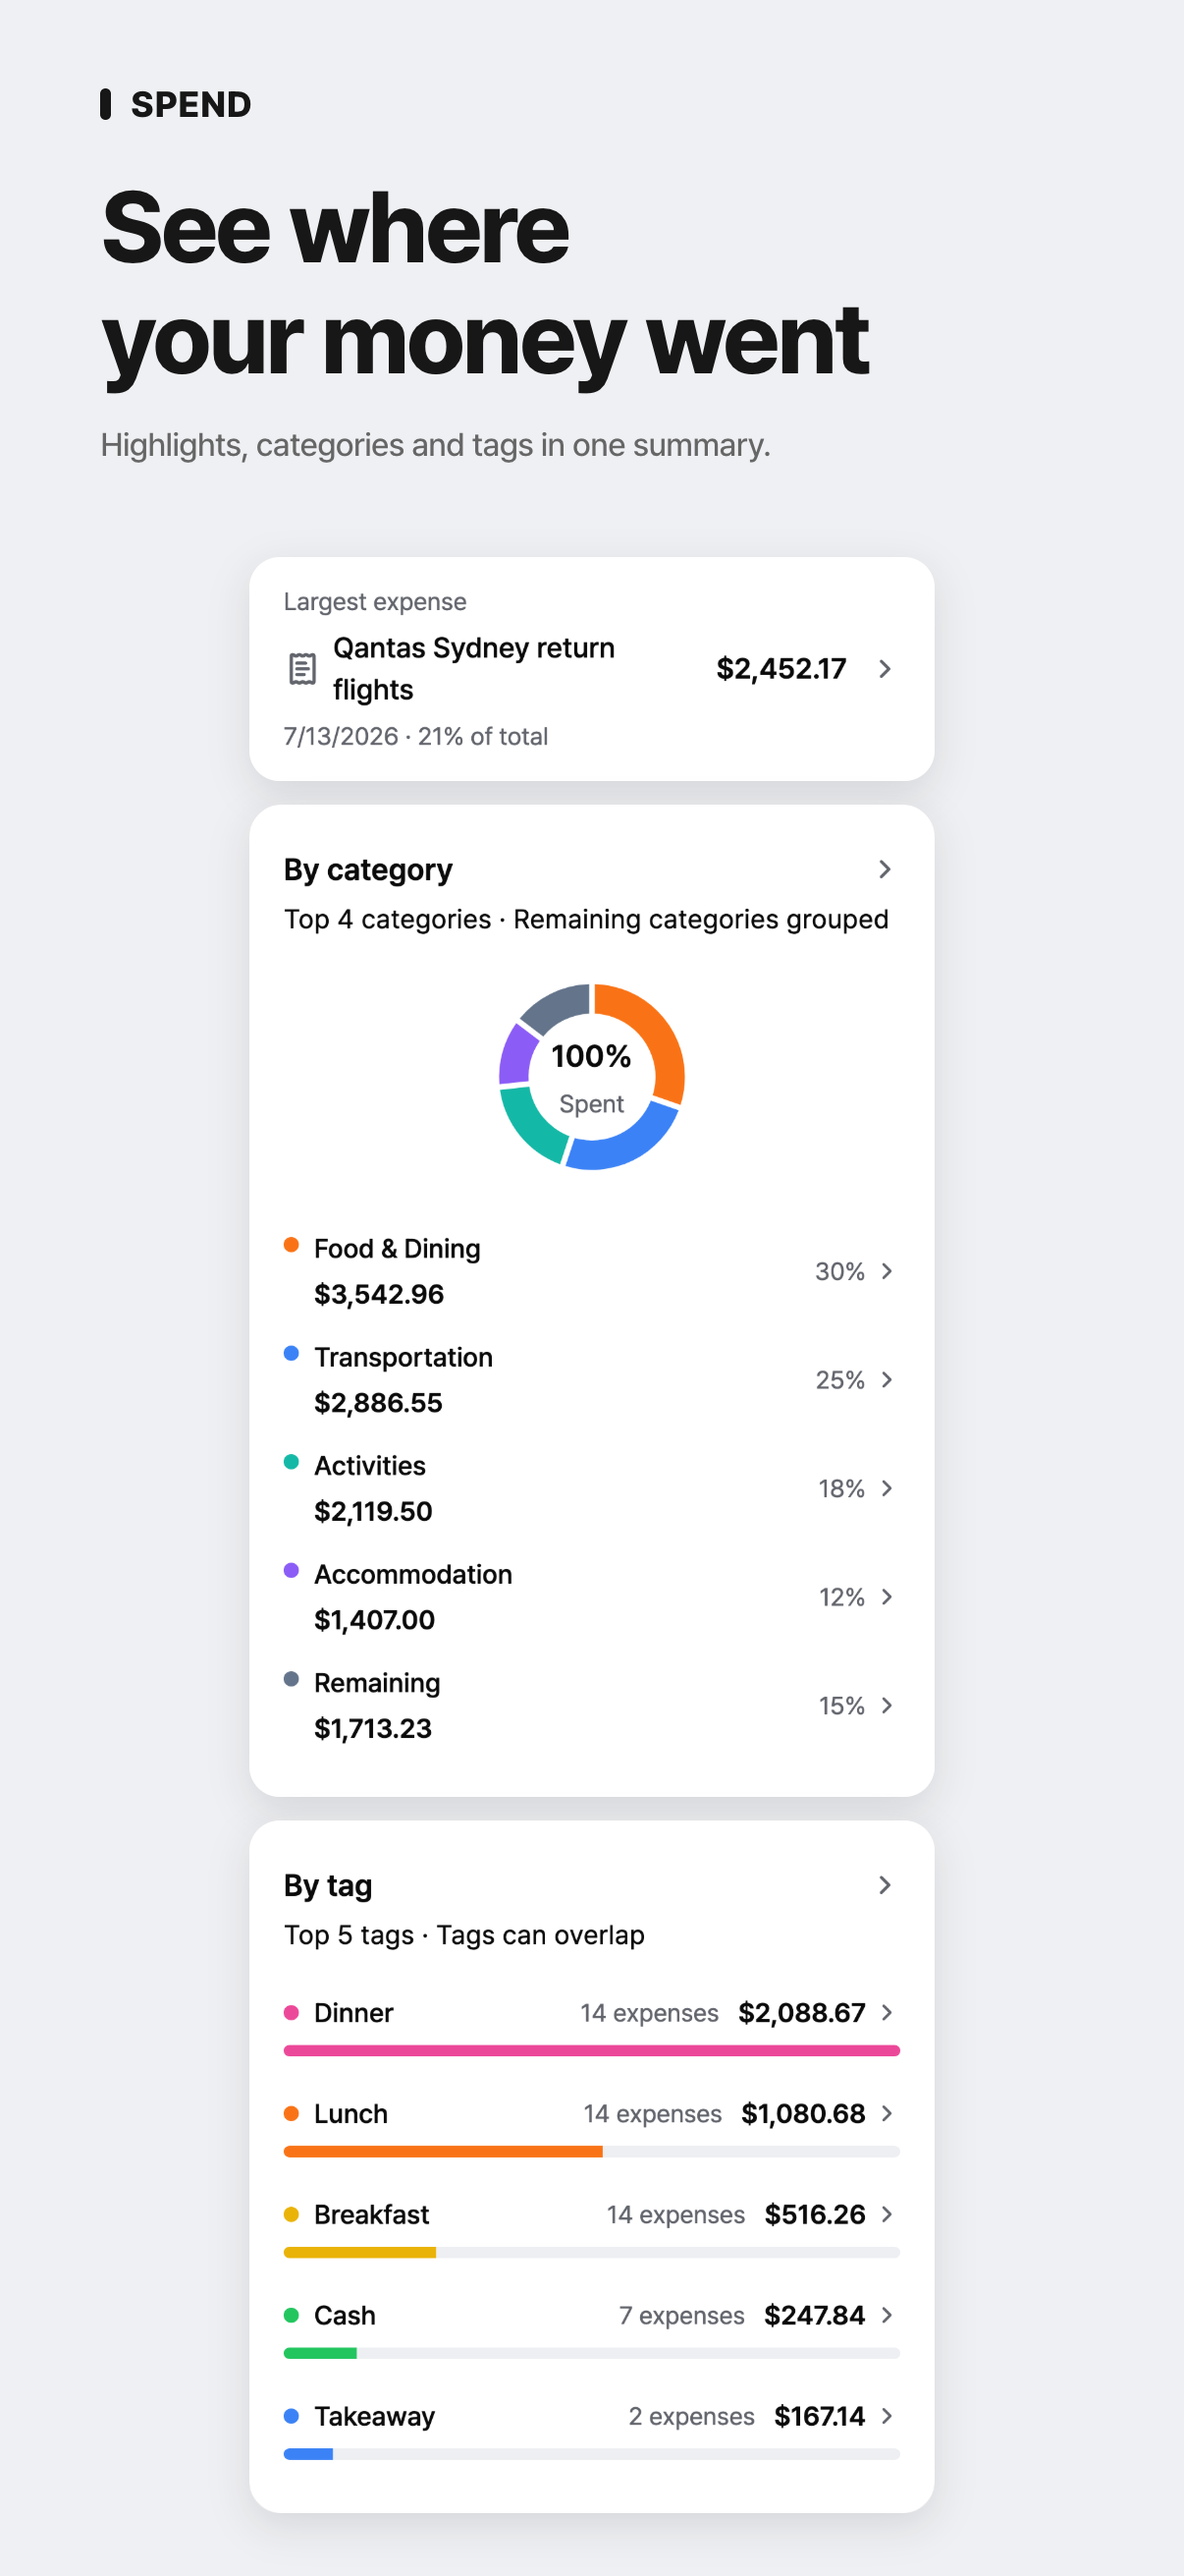
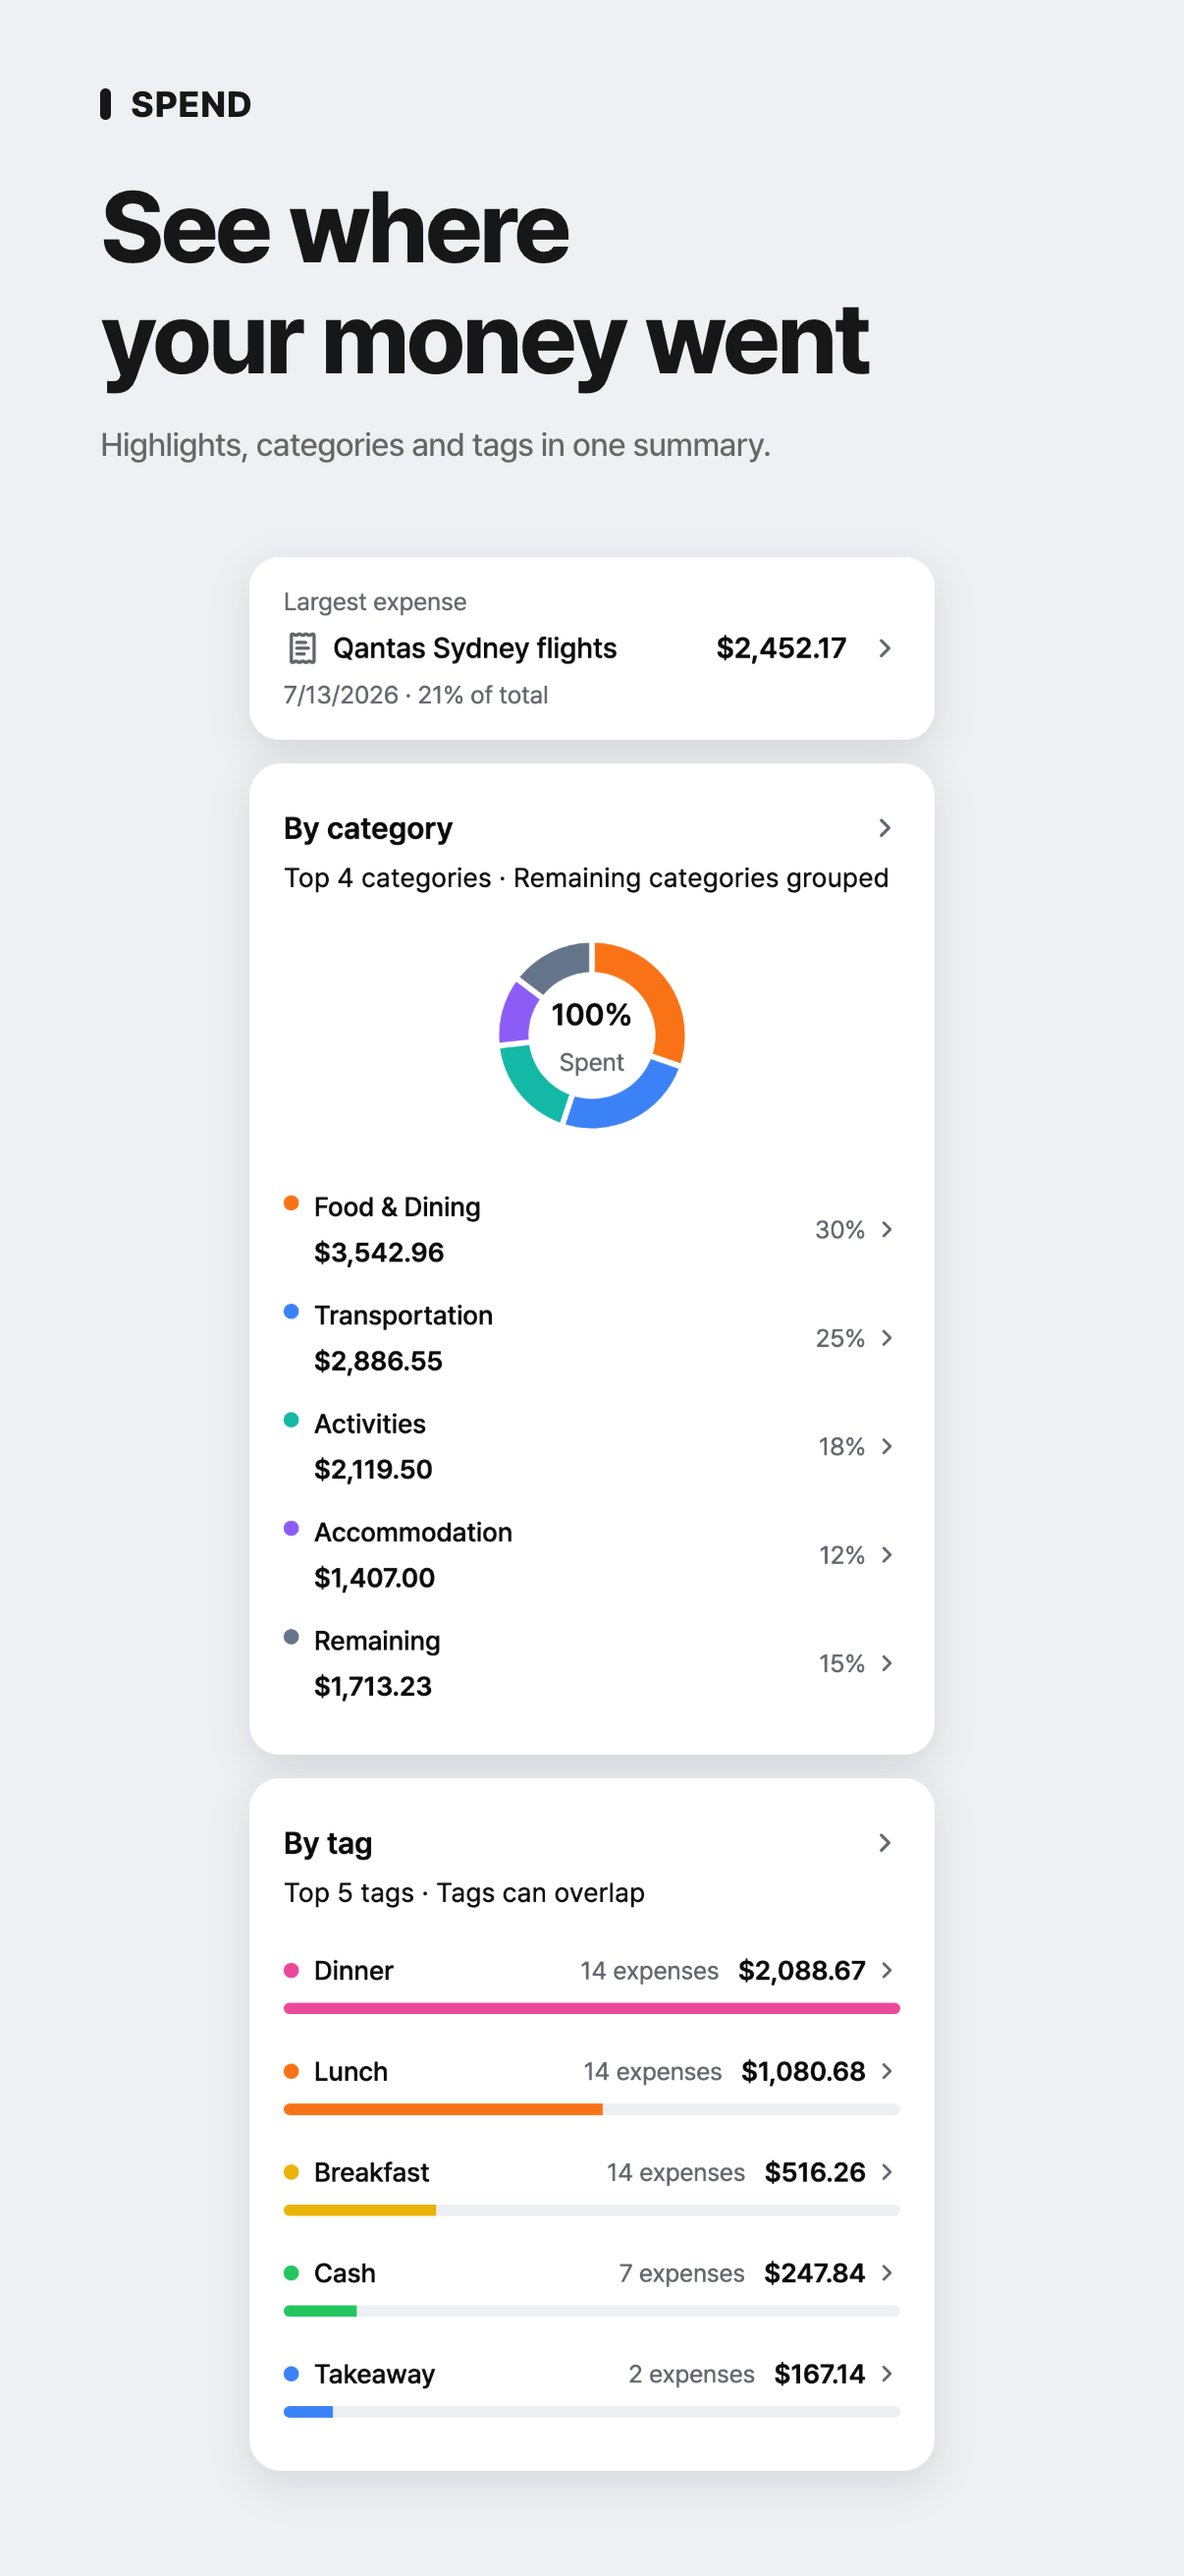
Update settlement and insights gallery artwork

diff --git a/index.html b/index.html
@@ -33,12 +33,12 @@
       <section class="screens-section" aria-label="App preview">
         <div class="screens" tabindex="0" aria-label="Nine app screenshots. Scroll horizontally to explore.">
           <img src="/images/overview.png?v=06801966dcef" width="1206" height="2622" alt="Split group bills. Track travel costs. A quick calculator and an expense book.">
-          <img src="/images/settlement.png?v=bcfc59ff17ad" width="1206" height="2622" alt="Who owes whom? See it clearly. Member balances and suggested settlements.">
+          <img src="/images/settlement.png?v=0edb3f6c3fa7" width="1206" height="2622" alt="Who owes whom? See it clearly. Member balances and suggested settlements.">
           <img src="/images/split-members.png?v=40dcfa35934b" width="1206" height="2622" alt="This one for two. That one for everyone. Choose who paid and who shares each cost.">
           <img src="/images/group-expenses.png?v=4c82f9890f7a" width="1206" height="2622" loading="lazy" alt="Group expenses, all in one place. Record who paid. Keep each meetup together.">
           <img src="/images/receipt.png?v=cf8c89224290" width="1206" height="2622" loading="lazy" alt="Share a clear expense breakdown. Share expense items and the total as a receipt.">
           <img src="/images/currencies.png?v=4c0748a29817" width="1206" height="2622" loading="lazy" alt="Record in local currency. Review in your currency. Tap the currency to adjust amounts and rates.">
-          <img src="/images/insights.png?v=01732294d835" width="1206" height="2622" loading="lazy" alt="See where your money went. Highlights, categories and tags in one summary.">
+          <img src="/images/insights.png?v=132d296a899f" width="1206" height="2622" loading="lazy" alt="See where your money went. Highlights, categories and tags in one summary.">
           <img src="/images/quick-split.png?v=0f0eb78a5c96" width="1206" height="2622" loading="lazy" alt="Just need to split? Use the calculator. Amounts and a headcount. No event needed.">
           <img src="/images/mini-games.png?v=cccf4f44d8a4" width="1206" height="2622" loading="lazy" alt="Three mini games for your meetup. Finger, wheel and pinball. Start from a split.">
         </div>
